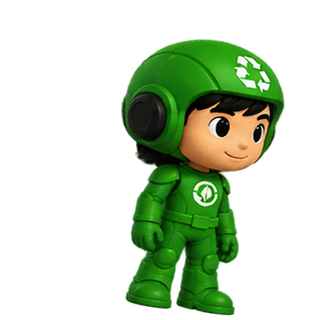
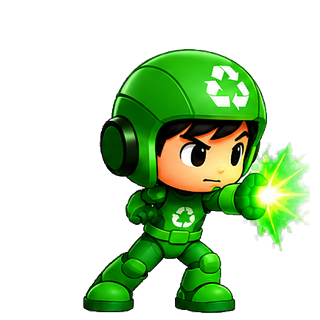
feat aarruma animação de tiro

diff --git a/frontend/src/game/playerAnim.ts b/frontend/src/game/playerAnim.ts
@@ -24,10 +24,12 @@ export type PlayerState =
 export const HURT_TIME = 0.45;
 export const LAND_TIME = 0.2;
 export const JUMP_START_TIME = 0.07;
-export const ATTACK_START_END = 0.06;   // fim da preparação do ataque
+export const ATTACK_START_END = 0.05;   // fim da mira (quadro 0)
 /** Instante em que o tiro realmente sai (primeiro quadro "ativo" do golpe). */
 export const ATTACK_FIRE_T = ATTACK_START_END;
-export const ATTACK_ACTIVE_END = 0.12;  // fim do golpe ativo
+export const ATTACK_ACTIVE_END = 0.11;  // fim do clarão de saída (quadro 1)
+/** Dentro da recuperação: até aqui o quadro é a rajada (2), depois o brilho se dissipando (3). */
+export const ATTACK_BLAST_END = 0.18;
 export const ATTACK_TOTAL = 0.28;       // fim da recuperação
 export const SPECIAL_TIME = 0.4;
 export const INTERACT_TIME = 0.45;
@@ -155,7 +157,7 @@ export function heroPose(state: PlayerState, i: HeroPoseInput): { anim: string; 
     case 'special': return { anim: 'attack', index: 1 };
     case 'attackStart': return { anim: 'attack', index: 0 };
     case 'attack': return { anim: 'attack', index: 1 };
-    case 'attackRecovery': return { anim: 'attack', index: 2 };
+    case 'attackRecovery': return { anim: 'attack', index: ATTACK_ACTIVE_END + i.stateT < ATTACK_BLAST_END ? 2 : 3 };
     case 'jumpStart': return { anim: 'jump', index: 0 };
     case 'jumpRise': case 'jumpApex': case 'victory': return { anim: 'jump', index: 1 };
     case 'fall': return { anim: 'fall', index: Math.floor(i.stateT * 8) };

diff --git a/frontend/tests/playerAnim.test.ts b/frontend/tests/playerAnim.test.ts
@@ -79,3 +79,20 @@ describe('PlayerAnim', () => {
     st.climbMoving = false; const n1 = a.update({ ...st }).name; run(a, st, 0.5, 1 / 60); expect(a.update({ ...st }).name).toBe(n1);
   });
 });
+
+describe('quadros do tiro do herói', () => {
+  it('toca mira -> clarão -> rajada -> dissipação, sem pular quadro, e cada quadro existe no atlas', async () => {
+    const { heroPose, ATTACK_FIRE_T, ATTACK_TOTAL } = await import('../src/game/playerAnim');
+    const a = new PlayerAnim(); const st = base(); st.shootT = 0; const idx: number[] = [];
+    for (let n = 0; n < 30; n++) {
+      st.t += 1 / 60; st.shootT += 1 / 60;
+      const o = a.update({ ...st });
+      if (st.shootT >= ATTACK_TOTAL) break;
+      const hp = heroPose(o.state, { stateT: a.stateT, hurtT: 0, landT: 0, dieT: 0, vy: 0, speed: 0 });
+      expect(hp.anim).toBe('attack');
+      if (idx[idx.length - 1] !== hp.index) idx.push(hp.index);
+    }
+    expect(idx).toEqual([0, 1, 2, 3]);
+    expect(ATTACK_FIRE_T).toBeGreaterThan(0);
+  });
+});

diff --git a/frontend/src/game/engine.ts b/frontend/src/game/engine.ts
@@ -252,7 +252,7 @@ export class Engine {
     // o tiro sai no quadro ativo do golpe (não no primeiro instante), alinhado com a pose e o som
     if (this.shotPending && p.shootT >= ATTACK_FIRE_T) {
       this.shotPending = false; audio.sfx('shoot');
-      this.shots.push({ x: p.x + p.w / 2 + p.facing * 36, y: p.y + 40, vx: p.facing * 780, life: 1.1 });
+      this.shots.push({ x: p.x + p.w / 2 + p.facing * 40, y: p.y + 50, vx: p.facing * 780, life: 1.1 });
     }
     if (this.keys.special && !this.specialWas && p.specialCd <= 0) {
       p.specialCd = DIFFICULTY[getSettings().difficulty].specialCd; p.specialT = 0; this.specialFx = 0.7; this.shake = 0.3; audio.sfx('special');
